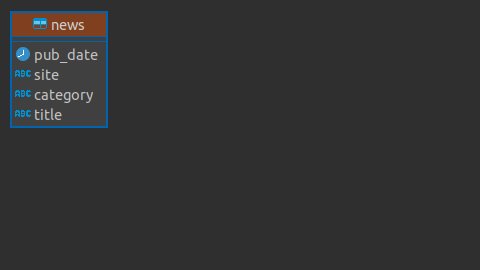
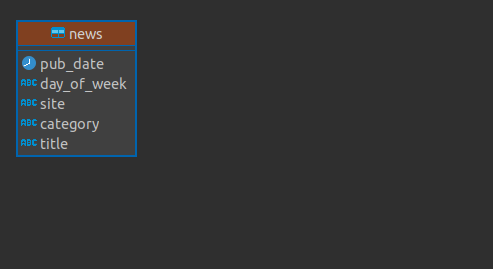
upgrade schema

Changed region(s): [[0.0, 0.0297, 0.2812, 0.5948]]

diff --git a/rss/parser.py b/rss/parser.py
@@ -54,9 +54,11 @@ df_news = pd.concat([pd.Series(predicted_topics), df], ignore_index=True, axis=1
 df_news = df_news.rename(columns={0: "category", 1: "title", 2: "pub_date", 3: "site"})
 
 df_news['parsed_date'] = None
+df_news['day_of_week'] = None
 for index, row in enumerate(df_news['pub_date']):
     parsed = time.strptime(row, "%a, %d %b %Y %H:%M:%S %z")
     df_news['parsed_date'][index] = time.strftime('%Y-%m-%d %H:%M:%S', parsed)
+    df_news['day_of_week'][index] = time.strftime('%a', parsed)
 
 # kafka
 
@@ -71,7 +73,8 @@ def write_to_kafka(df):
         hm["category"] = row["category"]
         hm["title"] = row["title"]
         hm["site"] = row["site"]
-        hm["pub_date"] = row["parsed_date"]        
+        hm["pub_date"] = row["parsed_date"]
+        hm["day_of_week"] = row["day_of_week"]        
         producer.send('foobar', json.dumps(hm).encode('utf-8'))
         producer.flush()
 
